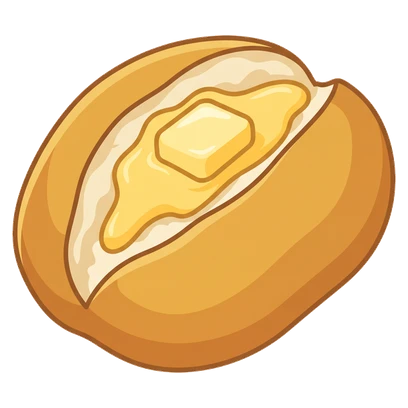
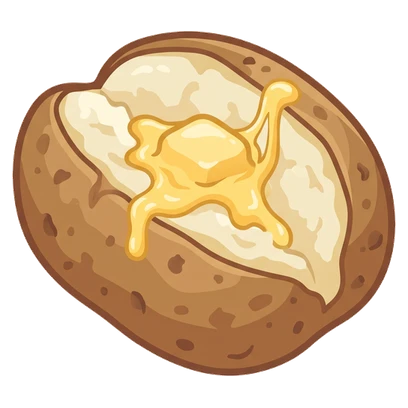
Seis ilustraciones que no decian lo que eran, el freno que cortaba ventas y el consecutivo repetido
IMAGENES CRUZADAS. Poniendo el nombre debajo de cada dibujo (qa-hoja-carta.mjs) se ven
los fallos que mirando los archivos sueltos no: "Chicharrones crocantes" era arte viejo
que parecia un panal de gofre, "Papa al horno" parecia un pan con mantequilla, "Salsa NE"
parecia chocolate, y el "Nugget calado en coco o pina" no tenia ni coco ni pina. Mas papa
criolla y parmesano, que venian del arte viejo y estaban flojos. Regeneradas las seis con
prompts que describen el plato de verdad. Los 24 componentes de la carta leen bien.

EL FRENO DE PEDIDOS CORTABA VENTAS. Eran 5 por minuto POR IP, y todo el local sale por el
mismo WiFi: en hora pico el sexto pedido del minuto —de un cliente real, en otra mesa— se
rechazaba. Un freno antiabuso que le cuesta ventas al negocio esta mal puesto. Ahora el
limite real es POR DISPOSITIVO (cookie anonima, sin ningun dato personal): una mesa no
pide cuatro cajas en un minuto, pero doce mesas si pueden pedir doce. El techo por origen
sube a 60/min: muy por encima de cualquier servicio real, y sigue cortando un bucle en
segundos.

DOS PEDIDOS, EL MISMO NUMERO DE COMPROBANTE. crearPedido lee el catalogo ANTES de entrar
en la cola de escritura, asi que dos pedidos casi simultaneos leian el mismo estado y
ambos se adjudicaban el mismo consecutivo: dos clientes con el mismo numero y una
numeracion imposible de auditar. El numero se decide ahora DENTRO del candado
(asegurarConsecutivos), con el documento ya fusionado, en orden de creacion y reparando
[…]

diff --git a/web/app/pedido-actions.ts b/web/app/pedido-actions.ts
@@ -1,6 +1,6 @@
 "use server";
 
-import { headers } from "next/headers";
+import { cookies, headers } from "next/headers";
 import { revalidatePath } from "next/cache";
 import {
   crearPedido,
@@ -43,28 +43,56 @@ async function operar(fn: () => Promise<unknown>, exito?: string) {
 /* ------------------------------------------------------------------ */
 
 /**
- * Freno de pedidos por origen. `enviarPedido` es la ÚNICA acción pública que muta el
- * cerebro y no tenía límite alguno: en bucle vaciaba la despensa real (marcando toda la
- * carta como agotada para los clientes de verdad) y empujaba los pedidos reales fuera
- * del tope del documento. En memoria de la instancia — no es una defensa distribuida,
- * pero corta el abuso desde un solo origen, que es el ataque realista aquí.
+ * FRENO DE PEDIDOS — por dispositivo primero, por origen solo contra el abuso.
+ *
+ * `enviarPedido` es la única acción pública que muta el cerebro: sin límite, en bucle
+ * vacía la despensa real y deja la carta agotada para los clientes de verdad.
+ *
+ * Pero el límite ANTERIOR era de 5 por minuto POR IP, y todo el local sale por el
+ * mismo WiFi: en hora pico, el sexto pedido del minuto —de un cliente real, en otra
+ * mesa— se rechazaba. Un freno antiabuso que le cuesta ventas al negocio está mal
+ * puesto.
+ *
+ * Ahora el freno real es POR DISPOSITIVO (cookie anónima): una mesa no pide cuatro
+ * cajas en un minuto, pero doce mesas sí pueden pedir doce. El techo por IP queda muy
+ * por encima de cualquier servicio real y solo existe para cortar un script.
  */
 const ultimos = new Map<string, number[]>();
 const VENTANA_MS = 60_000;
-const MAX_POR_MINUTO = 5;
+const MAX_POR_DISPOSITIVO = 4;
+const MAX_POR_ORIGEN = 60; // un local lleno no llega ni de lejos; un bucle, en segundos
 
 async function origen(): Promise<string> {
   const h = await headers();
   return h.get("x-forwarded-for")?.split(",")[0]?.trim() || "desconocido";
 }
 
-function demasiados(ip: string): boolean {
+/**
+ * Identidad anónima del teléfono que pide. No lleva ningún dato personal: es un número
+ * al azar que solo sirve para no dejar que UN aparato inunde la cocina.
+ */
+async function dispositivo(): Promise<string> {
+  const c = await cookies();
+  const previo = c.get("pg_cliente")?.value;
+  if (previo && previo.length >= 8) return previo;
+  const id = crypto.randomUUID();
+  c.set("pg_cliente", id, {
+    httpOnly: true,
+    sameSite: "lax",
+    secure: Boolean(process.env.VERCEL),
+    path: "/",
+    maxAge: 60 * 60 * 24 * 365,
+  });
+  return id;
+}
+
+function demasiados(clave: string, max: number): boolean {
   const ahora = Date.now();
-  const previos = (ultimos.get(ip) ?? []).filter((t) => ahora - t < VENTANA_MS);
+  const previos = (ultimos.get(clave) ?? []).filter((t) => ahora - t < VENTANA_MS);
   previos.push(ahora);
-  ultimos.set(ip, previos);
-  if (ultimos.size > 1000) ultimos.clear(); // techo de memoria
-  return previos.length > MAX_POR_MINUTO;
+  ultimos.set(clave, previos);
+  if (ultimos.size > 2000) ultimos.clear(); // techo de memoria
+  return previos.length > max;
 }
 
 /**
@@ -83,8 +111,13 @@ export async function enviarPedido(input: NuevoPedido) {
     error,
   });
   try {
-    if (demasiados(await origen())) {
-      return fallo("Vas muy rápido. Espera un momento y vuelve a intentarlo.");
+    /* El freno de verdad es el del aparato; el del origen solo corta un bucle. Así
+       doce mesas pueden pedir doce veces desde el mismo WiFi sin tropezarse. */
+    if (demasiados(`d:${await dispositivo()}`, MAX_POR_DISPOSITIVO)) {
+      return fallo("Ya enviaste varios pedidos seguidos. Espera un minuto y vuelve a intentarlo.");
+    }
+    if (demasiados(`ip:${await origen()}`, MAX_POR_ORIGEN)) {
+      return fallo("Hay demasiados pedidos entrando a la vez. Intenta en un momento.");
     }
     const pedido = await crearPedido(input);
     revalidatePath("/"); // el stock/agotado pudo cambiar

diff --git a/web/lib/catalog.ts b/web/lib/catalog.ts
@@ -597,6 +597,9 @@ async function commit(
     for (let intento = 0; intento < 3; intento++) {
       const actual = await readFresco(); // fija el etag para la escritura condicional
       const doc = opciones?.autoritativo ? { ...cat } : fusionar(actual, cat);
+      // Con el documento ya fusionado y dentro del candado: aquí y solo aquí se
+      // decide qué número de comprobante lleva cada pedido.
+      asegurarConsecutivos(doc.pedidos ?? []);
       doc.undo = [...(actual.undo ?? []), stripSnap(actual)].slice(-UNDO_CAP);
       doc.redo = [];
       if (texto) {
@@ -902,11 +905,42 @@ export interface NuevoPedido {
 }
 
 /**
- * Siguiente número de comprobante. Sube de uno en uno sobre el mayor que exista, y
- * como toda escritura pasa por el candado y por el compare-and-swap, no se repite.
+ * Número de comprobante PROVISIONAL. El definitivo lo pone `asegurarConsecutivos`
+ * dentro del candado: aquí todavía no lo es.
  */
 function siguienteConsecutivo(cat: Catalog): number {
   return (cat.pedidos ?? []).reduce((m, p) => Math.max(m, p.consecutivo ?? 0), 0) + 1;
+}
+
+/**
+ * NUMERACIÓN ÚNICA, decidida dentro del candado.
+ *
+ * `crearPedido` lee el catálogo ANTES de entrar en la cola de escritura, así que dos
+ * pedidos casi simultáneos leían el mismo estado y ambos se adjudicaban el mismo
+ * consecutivo: dos clientes con el mismo número de comprobante, y una numeración con
+ * saltos imposible de auditar. Aquí, ya con el documento fusionado y en exclusiva, se
+ * reparan los repetidos y los que falten — en orden de creación, que es el que un
+ * consecutivo debe respetar.
+ *
+ * Muta los objetos en su sitio a propósito: el pedido que se devolvió al cliente es el
+ * MISMO objeto, así que la pantalla de confirmación y el comprobante ven el número bueno.
+ */
+function asegurarConsecutivos(pedidos: Pedido[]): void {
+  const usados = new Set<number>();
+  const porFecha = [...pedidos].sort((a, b) => a.creadoEn.localeCompare(b.creadoEn));
+  let siguiente = 1;
+  for (const p of porFecha) {
+    const n = p.consecutivo;
+    if (typeof n === "number" && n > 0 && !usados.has(n)) {
+      usados.add(n);
+      if (n >= siguiente) siguiente = n + 1;
+      continue;
+    }
+    while (usados.has(siguiente)) siguiente++;
+    p.consecutivo = siguiente;
+    usados.add(siguiente);
+    siguiente++;
+  }
 }
 
 /** Índice de insumos por id (referencias vivas dentro del catálogo). */
